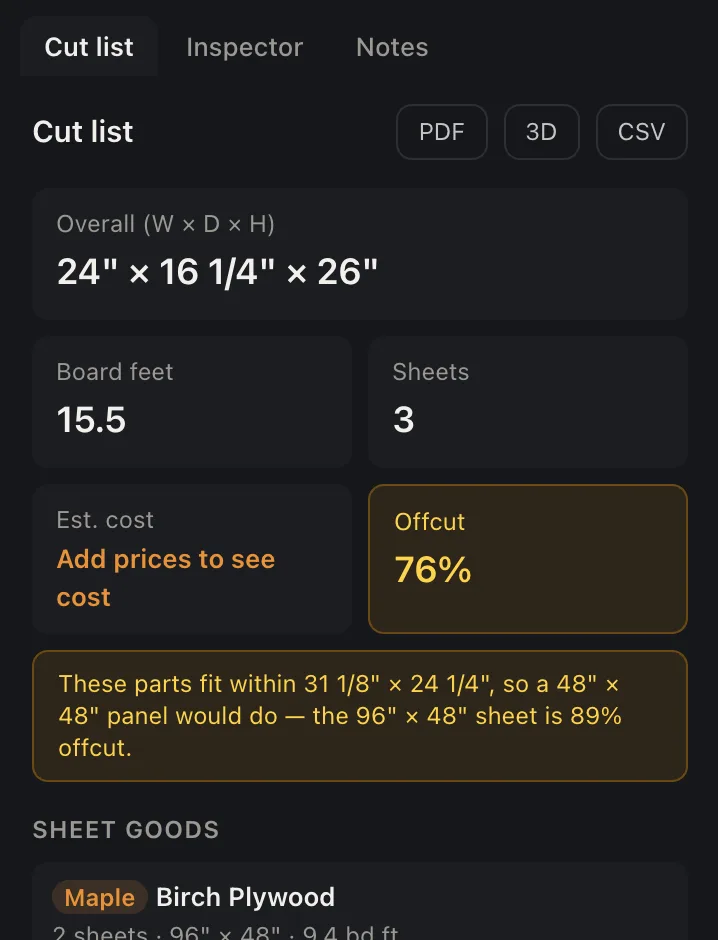
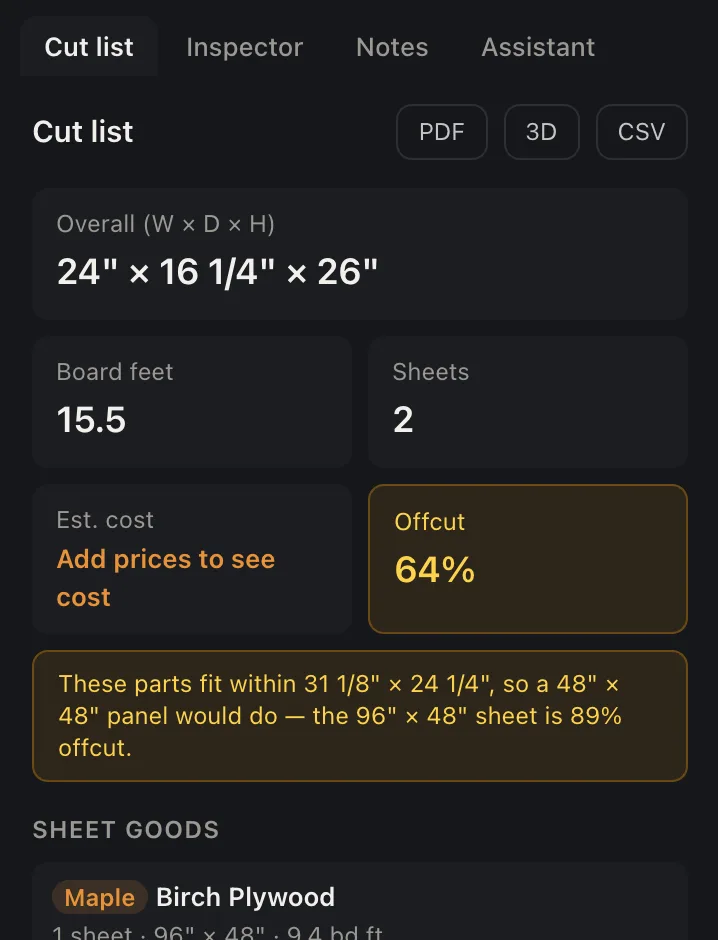
Pack sheet layouts tighter
The guillotine packer now tries 24 first-fit rules: pieces ordered by
area or by longer side; the first space that fits, the best short-side
fit or the best area fit; and four ways to split the space left. The
layout buying the fewest sheets wins, then the one using the fewest
pieces on hand. Ties keep the original rule, so a layout only changes
when another saves stock. Across the templates that is 39 sheets
instead of 44.

A new test holds every template's layouts to being cuttable: each piece
once, inside its sheet, with a kerf between neighbours. The cut list
help screenshots are retaken for the sample's new sheet count.

diff --git a/crates/woodshop-core/src/cutlist/pack.rs b/crates/woodshop-core/src/cutlist/pack.rs
@@ -58,15 +58,83 @@ pub fn pack_guillotine(items: Vec<SheetItem>, sheet_l: f64, sheet_w: f64, kerf: 
     pack_guillotine_into(items, &[], sheet_l, sheet_w, kerf)
 }
 
+/// Which free space a piece goes into.
+#[derive(Clone, Copy)]
+enum Choice {
+    /// The first that fits.
+    First,
+    /// The one leaving the least on the tighter side.
+    BestShortSide,
+    /// The one leaving the least area.
+    BestArea,
+}
+
+/// How the space left around a placed piece is cut in two (both are table-saw cuts).
+#[derive(Clone, Copy)]
+enum Split {
+    /// A strip across the full width above the piece, the rest beside it.
+    Across,
+    /// A strip the full height beside the piece, the rest above it.
+    Along,
+    /// Along the side with less left over.
+    Shorter,
+    /// Along the side with more left over.
+    Longer,
+}
+
+/// Largest longer side first, then area, then part id.
+fn order_by_side(a: &SheetItem, b: &SheetItem) -> Ordering {
+    let (side_a, side_b) = (a.w.max(a.h), b.w.max(b.h));
+    if (side_a - side_b).abs() > EPS {
+        return side_b.partial_cmp(&side_a).unwrap_or(Ordering::Equal);
+    }
+    order(a, b)
+}
+
 /// Packs onto `offcuts` (length, width) first, in the order given, then onto new sheets.
+///
+/// Several first-fit rules are tried and the one buying the fewest sheets (then using the fewest
+/// offcuts) wins; on a tie the first rule, the long-standing one, is kept, so a layout only changes
+/// when another saves stock.
 pub fn pack_guillotine_into(
-    mut items: Vec<SheetItem>,
+    items: Vec<SheetItem>,
     offcuts: &[(f64, f64)],
     sheet_l: f64,
     sheet_w: f64,
     kerf: f64,
 ) -> PackedSheets {
-    items.sort_by(order);
+    let mut by_area = items;
+    by_area.sort_by(order);
+    let mut by_side: Vec<&SheetItem> = by_area.iter().collect();
+    by_side.sort_by(|a, b| order_by_side(a, b));
+    let by_area: Vec<&SheetItem> = by_area.iter().collect();
+
+    let mut best: Option<PackedSheets> = None;
+    for items in [&by_area, &by_side] {
+        for choice in [Choice::First, Choice::BestShortSide, Choice::BestArea] {
+            for split in [Split::Across, Split::Along, Split::Shorter, Split::Longer] {
+                let packed = pack_with(items, offcuts, sheet_l, sheet_w, kerf, choice, split);
+                let better = best.as_ref().is_none_or(|b| {
+                    (packed.sheet_count, packed.offcuts_used.len()) < (b.sheet_count, b.offcuts_used.len())
+                });
+                if better {
+                    best = Some(packed);
+                }
+            }
+        }
+    }
+    best.expect("at least one rule runs")
+}
+
+fn pack_with(
+    items: &[&SheetItem],
+    offcuts: &[(f64, f64)],
+    sheet_l: f64,
+    sheet_w: f64,
+    kerf: f64,
+    choice: Choice,
+    split: Split,
+) -> PackedSheets {
     let mut sheets: Vec<Vec<FreeRect>> = offcuts
         .iter()
         .map(|&(w, h)| vec![FreeRect { x: 0.0, y: 0.0, w, h }])
@@ -74,8 +142,8 @@ pub fn pack_guillotine_into(
     let mut placements = Vec::new();
     let mut used_area = 0.0;
 
-    for item in &items {
-        let placed = (0..sheets.len()).any(|s| place(item, &mut sheets[s], s, kerf, &mut placements));
+    for item in items {
+        let placed = (0..sheets.len()).any(|s| place(item, &mut sheets[s], s, kerf, choice, split, &mut placements));
         if !placed {
             sheets.push(vec![FreeRect {
                 x: 0.0,
@@ -84,7 +152,7 @@ pub fn pack_guillotine_into(
                 h: sheet_w,
             }]);
             let s = sheets.len() - 1;
-            place(item, &mut sheets[s], s, kerf, &mut placements);
+            place(item, &mut sheets[s], s, kerf, choice, split, &mut placements);
         }
         used_area += item.w * item.h;
     }
@@ -110,56 +178,105 @@ pub fn pack_guillotine_into(
     }
 }
 
-/// First fit over the free rects, non-rotated preferred.
-fn place(item: &SheetItem, free: &mut Vec<FreeRect>, sheet: usize, kerf: f64, out: &mut Vec<Placement>) -> bool {
-    for i in 0..free.len() {
-        let rect = free[i];
-        let Some((w, h, rotated)) = fit_orientation(item, &rect) else {
-            continue;
-        };
-        out.push(Placement {
-            part_id: item.part_id.clone(),
-            name: item.name.clone(),
-            sheet,
-            x: rect.x,
-            y: rect.y,
-            w,
-            h,
-            rotated,
-        });
-        // Guillotine split: a right offcut and a top offcut, separated by the kerf.
-        let right = FreeRect {
-            x: rect.x + w + kerf,
-            y: rect.y,
-            w: rect.w - w - kerf,
-            h,
-        };
-        let top = FreeRect {
-            x: rect.x,
-            y: rect.y + h + kerf,
-            w: rect.w,
-            h: rect.h - h - kerf,
-        };
-        free.remove(i);
-        if top.w > EPS && top.h > EPS {
-            free.push(top);
+/// Places `item` in one of a sheet's free rects, chosen by `choice`, and splits what is left.
+fn place(
+    item: &SheetItem,
+    free: &mut Vec<FreeRect>,
+    sheet: usize,
+    kerf: f64,
+    choice: Choice,
+    split: Split,
+    out: &mut Vec<Placement>,
+) -> bool {
+    let mut pick: Option<(usize, f64, f64, bool, f64)> = None;
+    for (i, rect) in free.iter().enumerate() {
+        for (w, h, rotated) in orientations(item, rect) {
+            let score = match choice {
+                Choice::First => 0.0,
+                Choice::BestShortSide => (rect.w - w).min(rect.h - h),
+                Choice::BestArea => rect.w * rect.h - w * h,
+            };
+            if pick.is_none_or(|(.., best)| score < best - EPS) {
+                pick = Some((i, w, h, rotated, score));
+            }
         }
-        if right.w > EPS && right.h > EPS {
-            free.push(right);
+        if matches!(choice, Choice::First) && pick.is_some() {
+            break;
         }
-        return true;
     }
-    false
+    let Some((i, w, h, rotated, _)) = pick else {
+        return false;
+    };
+    let rect = free[i];
+    out.push(Placement {
+        part_id: item.part_id.clone(),
+        name: item.name.clone(),
+        sheet,
+        x: rect.x,
+        y: rect.y,
+        w,
+        h,
+        rotated,
+    });
+    let (left_w, left_h) = (rect.w - w - kerf, rect.h - h - kerf);
+    let across = match split {
+        Split::Across => true,
+        Split::Along => false,
+        Split::Shorter => left_w < left_h,
+        Split::Longer => left_w >= left_h,
+    };
+    // Two offcuts separated by the kerf: one spans the rect's full width (across) or full height.
+    let (top, right) = if across {
+        (
+            FreeRect {
+                x: rect.x,
+                y: rect.y + h + kerf,
+                w: rect.w,
+                h: left_h,
+            },
+            FreeRect {
+                x: rect.x + w + kerf,
+                y: rect.y,
+                w: left_w,
+                h,
+            },
+        )
+    } else {
+        (
+            FreeRect {
+                x: rect.x,
+                y: rect.y + h + kerf,
+                w,
+                h: left_h,
+            },
+            FreeRect {
+                x: rect.x + w + kerf,
+                y: rect.y,
+                w: left_w,
+                h: rect.h,
+            },
+        )
+    };
+    free.remove(i);
+    if top.w > EPS && top.h > EPS {
+        free.push(top);
+    }
+    if right.w > EPS && right.h > EPS {
+        free.push(right);
+    }
+    true
 }
 
-fn fit_orientation(item: &SheetItem, rect: &FreeRect) -> Option<(f64, f64, bool)> {
+/// The ways `item` fits `rect`: as it is first, then turned if it may be.
+fn orientations(item: &SheetItem, rect: &FreeRect) -> Vec<(f64, f64, bool)> {
+    let mut out = Vec::with_capacity(2);
     if item.w <= rect.w + EPS && item.h <= rect.h + EPS {
-        return Some((item.w, item.h, false));
+        out.push((item.w, item.h, false));
     }
     if item.rotatable && item.h <= rect.w + EPS && item.w <= rect.h + EPS {
-        return Some((item.h, item.w, true));
+        out.push((item.h, item.w, true));
     }
-    None
+    out
 }
 
 #[derive(serde::Deserialize)]

diff --git a/crates/woodshop-core/tests/packing.rs b/crates/woodshop-core/tests/packing.rs
@@ -1,0 +1,54 @@
+//! Every layout the packer makes can be cut: each piece once, inside its sheet, never overlapping
+//! another or its saw kerf.
+use woodshop_core::cutlist::{CutListConfig, compute_cut_list};
+
+const KERF: f64 = 0.125;
+
+#[test]
+fn every_template_packs_into_layouts_that_can_be_cut() {
+    for t in woodshop_core::templates::all() {
+        let spec = woodshop_core::templates::find(t.id).unwrap();
+        let list = compute_cut_list(&spec, CutListConfig::default());
+        for plan in &list.sheets {
+            let pieces: u32 = spec
+                .parts
+                .iter()
+                .filter(|p| p.material_id == plan.material_id)
+                .map(|p| p.qty())
+                .sum();
+            assert_eq!(
+                plan.placements.len(),
+                pieces as usize,
+                "{}: every piece placed once",
+                t.id
+            );
+            for (i, a) in plan.placements.iter().enumerate() {
+                assert!(a.sheet < plan.sheet_count, "{}: {a:?}", t.id);
+                assert!(
+                    a.x >= -1e-9
+                        && a.y >= -1e-9
+                        && a.x + a.w <= plan.sheet_size.l + 1e-6
+                        && a.y + a.h <= plan.sheet_size.w + 1e-6,
+                    "{}: {a:?} off the sheet",
+                    t.id
+                );
+                for b in &plan.placements[i + 1..] {
+                    let apart = a.sheet != b.sheet
+                        || a.x + a.w + KERF <= b.x + 1e-6
+                        || b.x + b.w + KERF <= a.x + 1e-6
+                        || a.y + a.h + KERF <= b.y + 1e-6
+                        || b.y + b.h + KERF <= a.y + 1e-6;
+                    assert!(apart, "{}: {a:?} overlaps {b:?}", t.id);
+                }
+            }
+        }
+    }
+}
+
+#[test]
+fn another_packing_rule_is_used_when_it_saves_a_sheet() {
+    // The nightstand's birch used to take three sheets in all; another rule fits the 3/4" on one.
+    let spec = woodshop_core::templates::find("nightstand").unwrap();
+    let list = compute_cut_list(&spec, CutListConfig::default());
+    assert_eq!(list.totals.sheet_count, 2);
+}

diff --git a/PLAN.md b/PLAN.md
@@ -521,6 +521,12 @@ have to look up, and the editor screenshot would make someone want to try it fro
   The same steps fold out under the cut list in the app, and agents read them as
   `assemblyOrder` on `get_cut_list`.
 
+- **Tighter sheet packing** (`pack_guillotine_into`): 24 first-fit runs (pieces by area or by
+  longer side; first fit, best short side or best area; four ways to split the space left) and
+  the fewest sheets wins, then the fewest pieces on hand used; ties keep the original rule, so
+  layouts only change when stock is saved. Templates: 44 → 39 sheets. `tests/packing.rs` holds
+  every template's layouts to being cuttable (inside the sheet, no overlap, kerf between).
+
 - **Stock on hand** (the `offcuts` setting, `CutListConfig.offcuts`): pieces the user owns, by
   material name and thickness (to 1/64"); sheet pieces need a width. Plans pack onto them first
   (smallest first), then onto bought stock; `sheetCount`/`stickCount` count bought stock only and

diff --git a/CHANGELOG.md b/CHANGELOG.md
@@ -42,6 +42,9 @@ All notable changes to Woodshop are listed here. The format follows
 
 ### Changed
 
+- Sheet layouts pack tighter: when another way of fitting the pieces saves a sheet, the cut list
+  uses it. Across the templates that is 39 sheets instead of 44 (the nightstand, wall cabinet,
+  bookcase with doors, record stand and desk with drawers each need one fewer).
 - Larger, higher-contrast text throughout; Settings is split into sections; icons replace text
   symbols; on macOS the window's own header sits beside the traffic lights, with no separate
   title bar.
